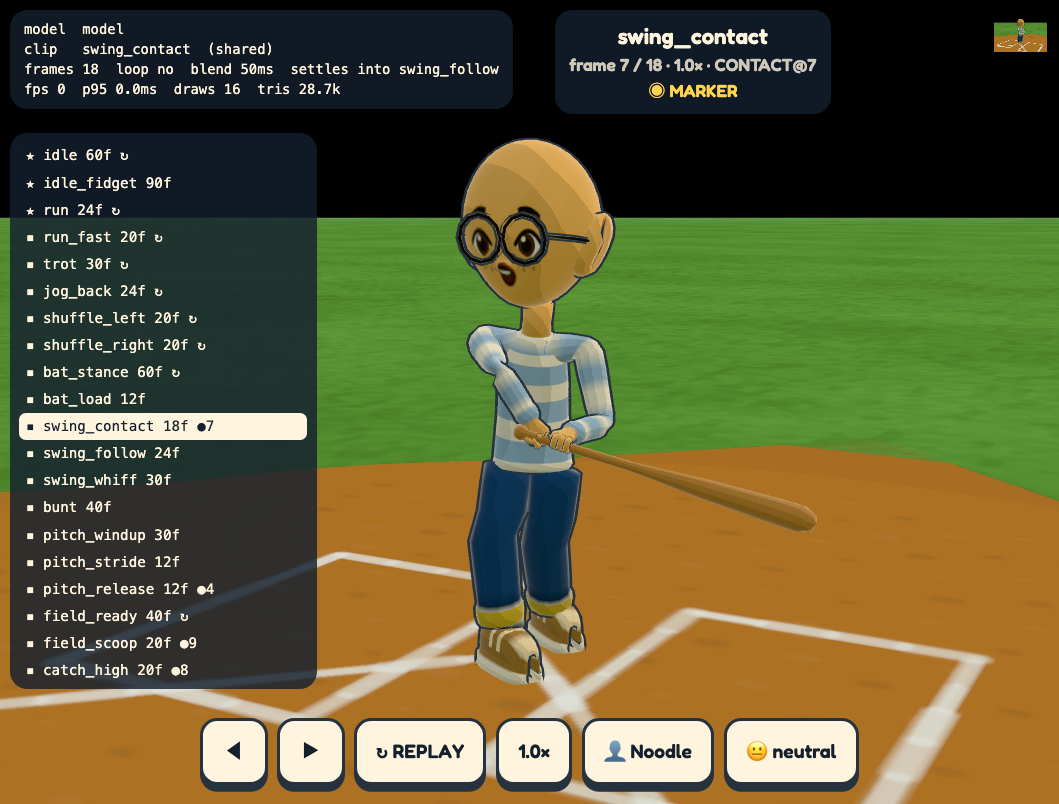
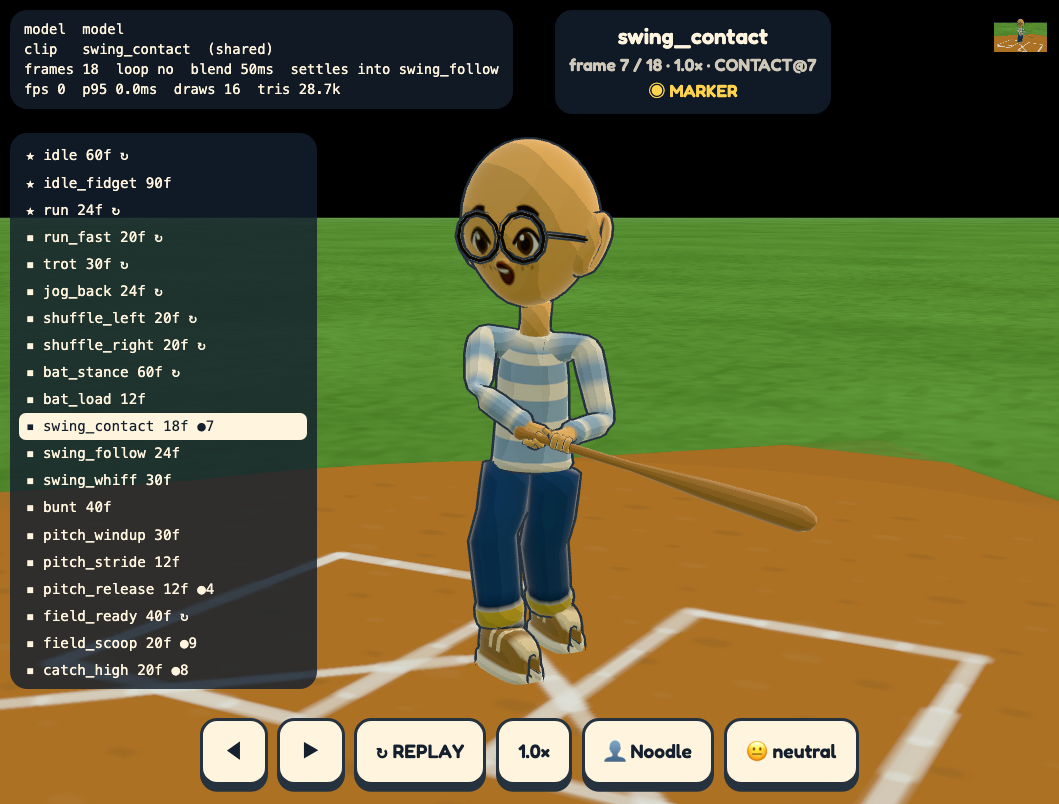
Lower the lead elbow so the sleeve and lead arm read at contact
With the lead elbow level with the shoulder, the lead upper arm pointed out
of its front: a short sleeve seen down its length read as a ball with a thin
arm in it (Flash, Smokey, Bendy Bao), and a high pitch foreshortened the arm
into a stub at the collar. The lead hand's diagonal grip is steeper at mid
height, easing off for low balls and the smallest kids' letters-high ones, so
the elbow sits below the shoulder. audit:batting and HandPose.test fail a lead
elbow above the shoulder (and within 0.05ft of it on the mid pitch).

diff --git a/src/v2/render/battingPose.ts b/src/v2/render/battingPose.ts
@@ -220,8 +220,28 @@ const SEATED_SWING_DROP_FRAME = 4;
  * contact; earlier, the low-pitch launch folds the knob wrist past 40 degrees.
  * The seated grip keeps the square hold: his reach flipped the lead arm.
  */
-const LEAD_GRIP_DIAGONAL = -.4;
+const LEAD_GRIP_DIAGONAL = -.6;
+/**
+ * Below these contact heights (rig feet) the diagonal eases toward LOW: the
+ * low pitch already tilts the barrel down, and the two together fold the knob
+ * wrist past 40 degrees. At -.4 everywhere the lead elbow stayed level with the
+ * shoulder, so the lead upper arm pointed straight out of the front of it: seen
+ * down the sleeve, a short sleeve read as a ball with a thin arm stuck in its
+ * front (Flash, Smokey, Bendy Bao), and a high pitch foreshortened the whole
+ * arm into a stub at the collar (independent review).
+ */
+const LEAD_GRIP_DIAGONAL_LOW = -.5;
+const LEAD_GRIP_LOW_FT = 1.1;
+const LEAD_GRIP_FULL_FT = 1.4;
 const LEAD_GRIP_FROM_FRAME = 4.5;
+/**
+ * Above these heights, reached only by the smallest kids' letters-high pitches,
+ * the diagonal eases back to HIGH: at the full angle their lead forearm jumped
+ * 27-35 degrees onto the contact frame (Sprout, Cricket, Chip, Turbo).
+ */
+const LEAD_GRIP_DIAGONAL_HIGH = -.52;
+const LEAD_GRIP_EASE_FT = 1.95;
+const LEAD_GRIP_TOP_FT = 2.15;
 /** 0 -> 1 over t in [0, 1], still at 0 and arriving at slope `k` (<= 3). */
 const into = (t: number, k: number) => { const u = Math.max(0, Math.min(1, t)); return (k - 2) * u ** 3 + (3 - k) * u * u; };
 const HEAD_FOLLOW = .5;
@@ -344,6 +364,8 @@ export class BattingPose {
   private buntWeight = 0;
   /** How much of the lead hand's diagonal grip this frame holds, 0..1. */
   private gripTilt = 0;
+  /** The contact sweet spot's height this frame (rig feet). */
+  private sweetHeight = 0;
   private readonly stanceGrip: Vector3;
   private readonly torso: Map<number, TorsoBand> | null;
 
@@ -443,7 +465,7 @@ export class BattingPose {
     const evaluate = (angle: number) => {
       const x = base.clone().applyAxisAngle(z, angle);
       const rotation = new Quaternion().setFromRotationMatrix(new Matrix4().makeBasis(x, z.clone().cross(x), z));
-      if (side === 'Left' && this.gripTilt) rotation.multiply(new Quaternion().setFromAxisAngle(Y, LEAD_GRIP_DIAGONAL * this.gripTilt));
+      if (side === 'Left' && this.gripTilt) rotation.multiply(new Quaternion().setFromAxisAngle(Y, (LEAD_GRIP_DIAGONAL_LOW + (LEAD_GRIP_DIAGONAL - LEAD_GRIP_DIAGONAL_LOW) * smooth((this.sweetHeight - LEAD_GRIP_LOW_FT) / (LEAD_GRIP_FULL_FT - LEAD_GRIP_LOW_FT)) + (LEAD_GRIP_DIAGONAL_HIGH - LEAD_GRIP_DIAGONAL) * smooth((this.sweetHeight - LEAD_GRIP_EASE_FT) / (LEAD_GRIP_TOP_FT - LEAD_GRIP_EASE_FT))) * this.gripTilt));
       const palmX = X.clone().applyQuaternion(rotation);
       const wrist = palm.clone().sub(this.palmOffset(side).applyQuaternion(rotation));
       const to = wrist.clone().sub(shoulder);
@@ -581,6 +603,7 @@ export class BattingPose {
     const sweetSpot = this.contact ? this.rig.worldToLocal(this.contact.clone())
       : new Vector3(-contactOutFront(this.seated), REVIEW_CONTACT_HEIGHT_FT, .55 + BAT_SWEET_SPOT_FT);
     const contactAxis = contactBatAxis(sweetSpot.y, this.seated);
+    this.sweetHeight = sweetSpot.y;
     const contact = sweetSpot.clone().addScaledVector(contactAxis, -BAT_SWEET_SPOT_FT);
     const wind = ready.clone().add(new Vector3(.07, .04, -.06));
     // A fixed finish round the lead side, reachable whatever the pitch.

diff --git a/src/v2/render/HandPose.test.ts b/src/v2/render/HandPose.test.ts
@@ -190,6 +190,7 @@ describe('reference hand behavior',()=>{
               const fore=at('LeftHand').sub(at('LeftForeArm'));
               expect(local('LeftForeArm').x/local('LeftArm').x,`${height}ft lead elbow across the chest`).toBeGreaterThan(.3);
               expect(Math.acos(Math.abs(fore.y)/fore.length()),`${height}ft lead forearm vertical`).toBeGreaterThan(25*Math.PI/180);
+              expect(local('LeftArm').y-local('LeftForeArm').y,`${height}ft lead elbow level with the shoulder`).toBeGreaterThan(height===1.5||height===null?.05:0);
             }
           }
           // The knees keep the hips' order seen from the pitcher (across Z):

diff --git a/docs/OVERVIEW.md b/docs/OVERVIEW.md
@@ -3232,6 +3232,13 @@ v2 and leaves every existing record and golden fingerprint where it was.
   the forearm, and with the bat pointing at the plate a straight lead wrist
   could only aim the forearm up. The lead hand now holds the bat diagonally,
   as a real grip does. The seated grip is unchanged.
+  A follow-up review found the lead elbow still level with the shoulder, the
+  upper arm pointing straight out of its front: a short sleeve seen down its
+  length read as a ball with a thin arm stuck in it, and on a high pitch the
+  arm foreshortened into a stub at the collar. The diagonal is now steeper at
+  mid height, easing off for low balls (where the tilted barrel already folds
+  the wrist) and the smallest kids' letters-high balls, and the lead elbow
+  sits below the shoulder.
   The fidelity findings stay open for a reviewer.
 
 - **Venue identity from the plate**: captured from the batting camera, Steele,
